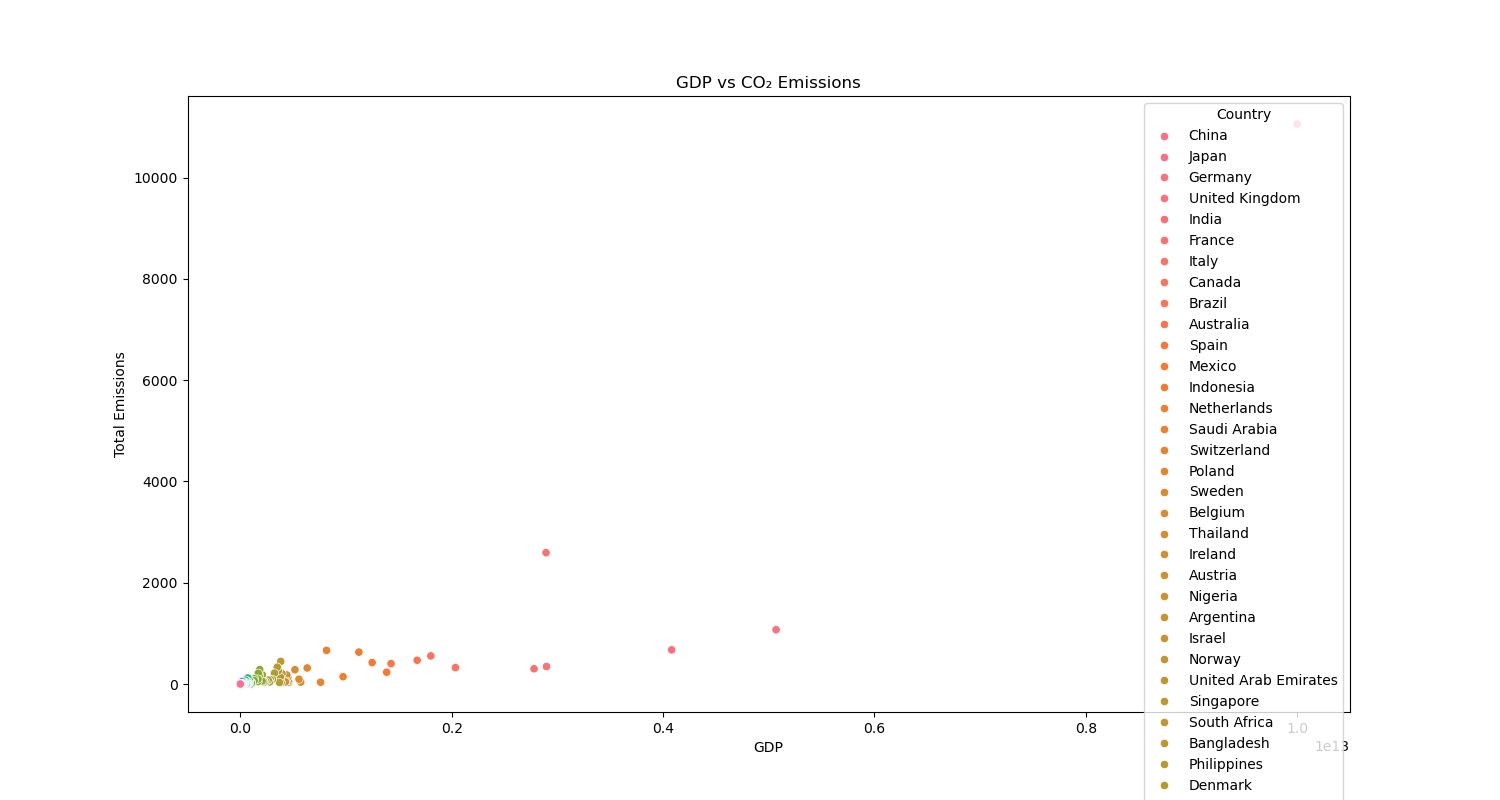
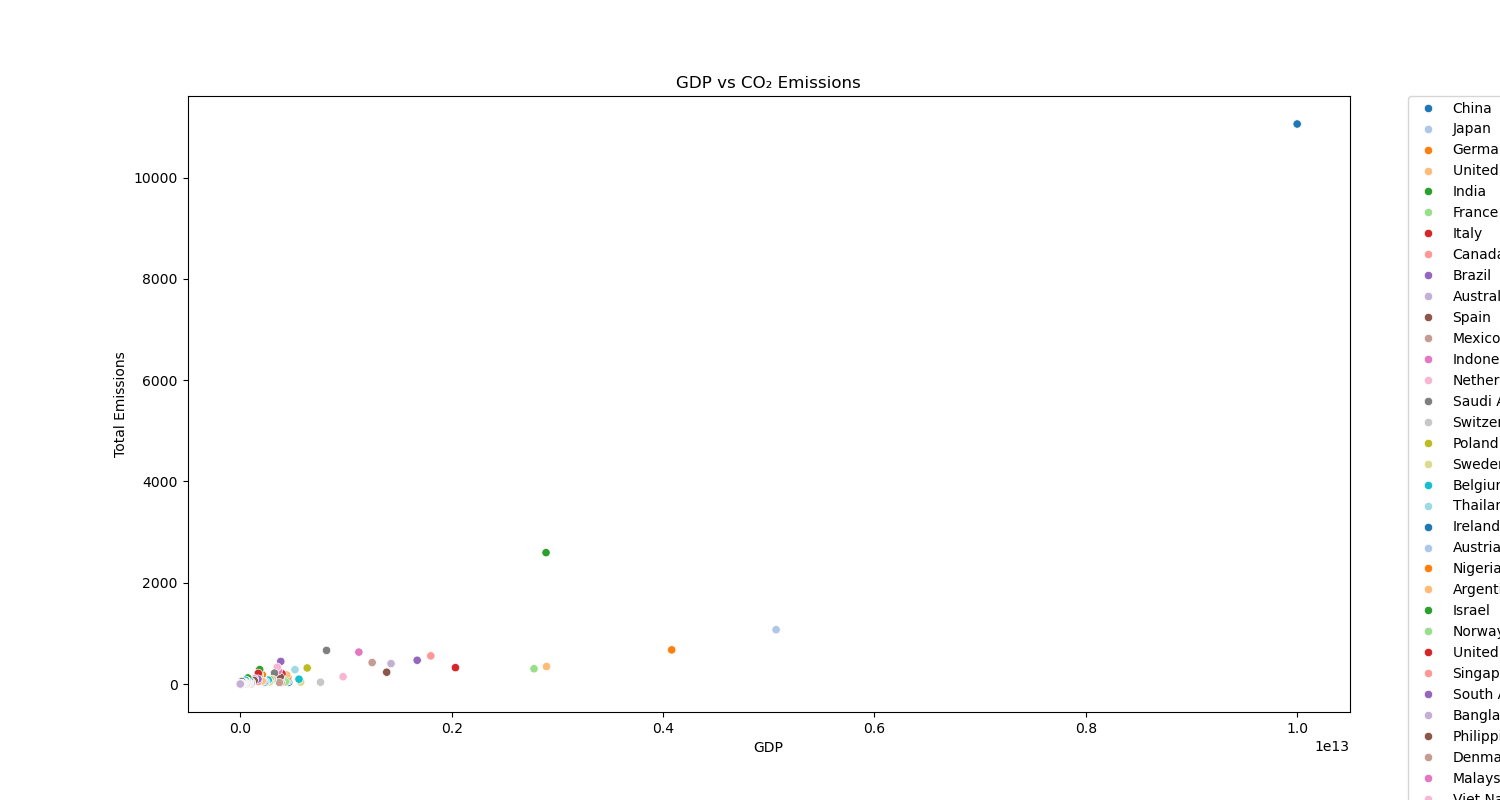
m

diff --git a/team1_part4.py b/team1_part4.py
@@ -34,13 +34,14 @@ cursor.execute(query)
 rows = cursor.fetchall()
 
 df = pd.DataFrame(rows, columns=[col[0] for col in cursor.description])
-
+palette = sns.color_palette("tab20", n_colors=len(df["Country"].unique()))
 #create plot
 plt.figure(figsize=(15,8))
-sns.scatterplot(data=df, x="GDP", y="Emissions", hue="Country")
+sns.scatterplot(data=df, x="GDP", y="Emissions", hue="Country", palette=palette)
 plt.title("GDP vs CO₂ Emissions")
 plt.xlabel("GDP")
 plt.ylabel("Total Emissions")
+plt.legend(bbox_to_anchor=(1.05,1),loc=2,borderaxespad=0.)
 plt.tight_layout()
 plt.savefig("pt4.png")
 
